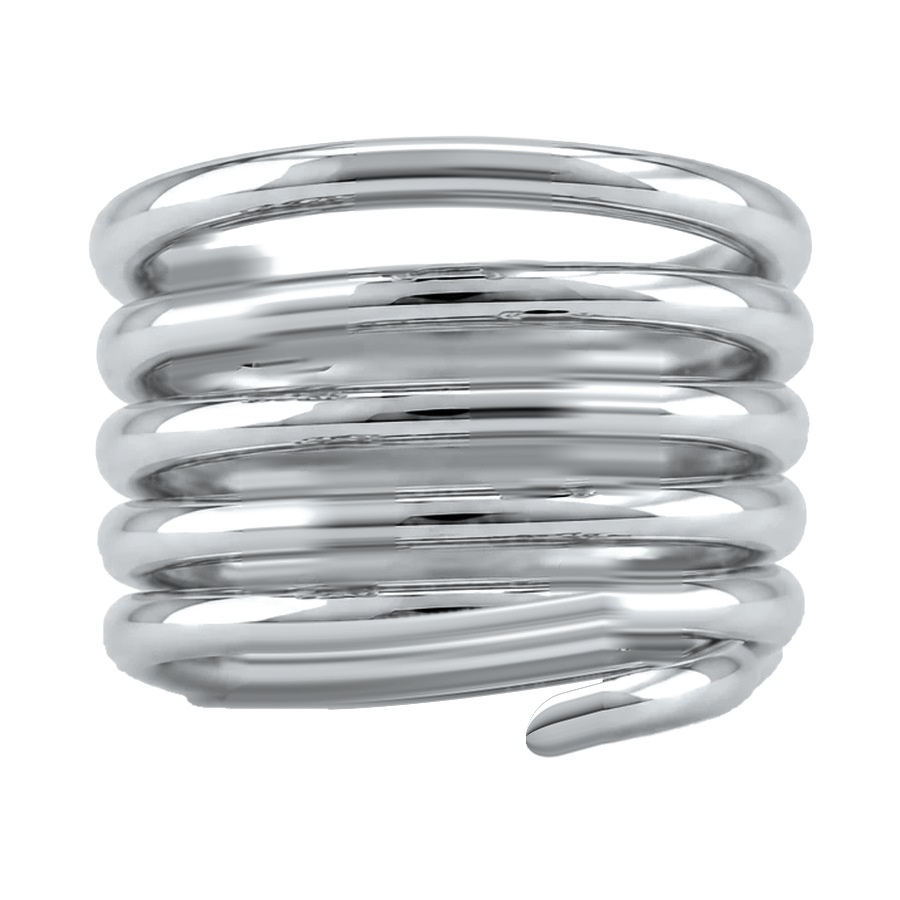
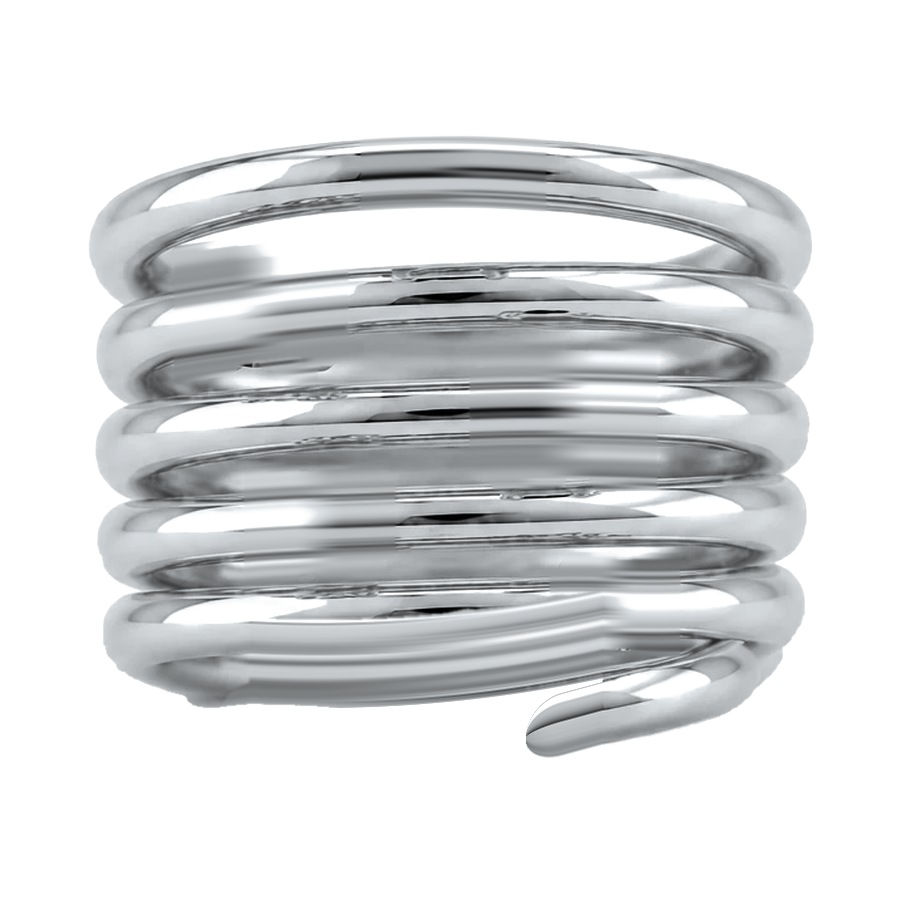
Rings 2 to 5: cleaner sides and bottom
Each setting's cut-out now stays inside the box of its own four prongs, so the ring's edge and the neighbouring bands are no longer touched. The band behind the bottom stone follows the real lower edge of the band (2-wrap step and 5-wrap smear gone).

diff --git a/index.html b/index.html
@@ -341,7 +341,7 @@ const PHOTO = 900, STONE_BOX = 3;      // a stone image is 3x its stone's radius
 
 const stoneSrc  = (i, metal) => asset('img/stones/' + METALS[metal].dir + '/' + STONE_BANK[i].file + '?v=2');
 const seatSrc   = metal => asset('img/stones/' + METALS[metal].dir + '/seat.png?v=2');
-const ringSrc   = (n, metal) => asset('img/rings/' + METALS[metal].dir + '/ring-' + n + '.jpg?v=14');   // bump v when the photos change, so no one sees old photos under new placements
+const ringSrc   = (n, metal) => asset('img/rings/' + METALS[metal].dir + '/ring-' + n + '.jpg?v=15');   // bump v when the photos change, so no one sees old photos under new placements
 const bottomSrc = (cut, size, metal) => asset('img/bottom/' + METALS[metal].dir + '/' + cut + '-' + size + '.png');
 
 /* ============================ STATE ============================

diff --git a/tools/nov24/lift4.py b/tools/nov24/lift4.py
@@ -37,19 +37,30 @@ def lift(std,s,kw,bad,top=False,thr=17.0):
             w=ndimage.gaussian_filter((~ndimage.binary_dilation(sbad,iterations=3)).astype(float),2.0)[...,None]
             return one*(1-w)+np.clip(src*gain,0,255)*w,np.maximum(m,ndimage.gaussian_filter(foot.astype(float),1.2)),f'turn dy={dy} dx={dx} err={e:.1f} donor free {1-sbad[foot].mean():.2f}'
     one,m,_=bridge(std,s['x'],s['y'],s['r'],**kw); return one,m,'bridge'
+def true_foot(shape,s,balls,inner):
+    """the setting's own outline: the stone, its four prong balls, the bars between them and the little gallery"""
+    H,W=shape; yy,xx=np.mgrid[:H,:W]; x,y,r=s['x'],s['y'],s['r']
+    f=(xx-x)**2+(yy-y)**2<(1.04*r+3)**2
+    for bx,by,br,ok in balls: f|=(xx-bx)**2+(yy-by)**2<(br+6)**2
+    for a,b in ((0,1),(2,3),(0,2),(1,3)):                      # bars: a capsule between neighbouring balls
+        (ax,ay,ar,_),(bx,by,br,_)=balls[a],balls[b]; t=np.clip(((xx-ax)*(bx-ax)+(yy-ay)*(by-ay))/max(1.0,(bx-ax)**2+(by-ay)**2),0,1)
+        f|=(xx-(ax+t*(bx-ax)))**2+(yy-(ay+t*(by-ay)))**2<(0.62*max(ar,br)+2)**2
+    gx=(balls[2][0]+balls[3][0])/2 if inner>0 else (balls[0][0]+balls[1][0])/2
+    f|=((xx-(gx+inner*0.22*r))/(0.42*r))**2+((yy-y)/(0.58*r))**2<1
+    return f
 def lift_all(n,std):
-    from marks import BEADS
-    P=json.load(open('params.json')); R=json.load(open('rounds.json'))[str(n)]; pears=json.load(open('pears.json'))[str(n)]
-    from PIL import Image, ImageDraw
-    H,W=std.shape[:2]; pm=Image.new('L',(W,H),0); ImageDraw.Draw(pm).polygon([tuple(p) for p in pears['hull']],fill=255); bad=np.asarray(pm)>0
-    yy,xx=np.mgrid[:H,:W]
-    for x,y,r in BEADS[n]: bad|=(xx-x)**2+(yy-y)**2<(r+4)**2
-    kws=[]
+    """every setting lifted by the row-by-row bridge, its outline kept inside the box of its own four prong balls"""
+    R=json.load(open('rounds.json'))[str(n)]; BL=json.load(open('balls.json'))[str(n)]; P=json.load(open('params.json'))
+    H,W=std.shape[:2]; bare=std.copy(); gone=np.zeros((H,W))
     for k,s in enumerate(R):
-        kw=dict(P.get(f'{n}-{k}',{})); [kw.pop(q,None) for q in ('x','y','r')]; kws.append(kw); bad|=footprint((H,W),s['x'],s['y'],s['r'],**kw)
-    bare=std.copy(); gone=np.zeros((H,W))
-    for k,s in enumerate(R):
-        one,m,how=lift(std,s,kws[k],bad,top=(k==0)); print('  ',n,k,s['kind'],how)
+        kw=dict(P.get(f'{n}-{k}',{})); [kw.pop(q,None) for q in ('x','y','r')]; x,y,r=s['x'],s['y'],s['r']; b=BL[k]; g=7.0
+        cl=(x-min(q[0]-q[2] for q in b)+g)/r; cr=(max(q[0]+q[2] for q in b)-x+g)/r; ct=(y-min(q[1]-q[2] for q in b)+g)/r; cb=(max(q[1]+q[2] for q in b)-y+g)/r
+        if k>0:                                                      # the gallery sticks out a little on the side facing the middle
+            if x<450: cr=max(cr,kw.get('padR',1.45))
+            else: cl=max(cl,kw.get('padL',1.45))
+        cl,cr=max(cl,1.42),max(cr,1.42); ct,cb=max(ct,1.32),max(cb,1.32)      # a missed ball must still be inside
+        cl,cr,ct,cb=[min(v,1.9) for v in (cl,cr,ct,cb)]
+        one,m,_=bridge(std,x,y,r,clip=(cl,cr,ct,cb),**kw); print('  ',n,k,s['kind'],'clip',[round(v,2) for v in (cl,cr,ct,cb)])
         bare=bare*(1-m[...,None])+one*m[...,None]; gone=np.maximum(gone,m)
     return bare,gone
 if __name__=='__main__':

diff --git a/tools/nov24/nopear.py b/tools/nov24/nopear.py
@@ -72,7 +72,18 @@ def erase(a,pg,T):
     sL=pg.get('sL',tilt(XL-24,XL,edgeL)); sR=pg.get('sR',tilt(xR,xR+24,edgeR)); print('   tilts',round(sL,3),round(sR,3),'rise',D)
     def offs(x):                                             # the band follows a smooth arc between the two sides
         t=(x-XL)/Wd; return (t**3-2*t*t+t)*sL*Wd+(-2*t**3+3*t*t)*D+(t**3-t*t)*sR*Wd
-    OFF=np.array([offs(x) for x in range(W)])
+    # the band's lower edge sags like the bottom of an ellipse: follow the real edge where the stone's body starts (XL2),
+    # leave it there at its own slope, and curve up to meet the band on the right
+    tipx,tipy,tipr=beads[0]; ysplit0=tipy-tipr-6
+    hx=np.nonzero((hole&(YY<ysplit0)&(XX>tipx)).any(0))[0]; XL2=max(XL,int(pg.get('XL2',(hx.min()-8) if len(hx) else XL)))
+    def low(x):
+        rr_=[q for q in runs((g&~hole)[:,x],minlen=6) if q[1]<y1+4]; return float(rr_[-1][1]) if rr_ else None
+    e2=pg.get('e2',low(XL2-3)); e2b=low(XL2-23)
+    if XL2>XL+10 and e2 is not None and e2b is not None and ('s2' in pg or abs(e2-e2b)/20.0<0.35):      # else the tilt-based arc
+        s2=float(pg.get('s2',(e2-e2b)/20.0)); L2=float(xR-XL2); c2=(edgeR-e2-s2*L2)/(L2*L2)
+        E=np.array([edgeL+(e2-edgeL)*(x-XL)/float(XL2-XL) if x<XL2 else e2+s2*(x-XL2)+c2*(x-XL2)**2 for x in range(W)])
+        OFF=E-edgeL; print('   lower edge at XL2',XL2,e2,'slope',round(s2,3))
+    else: OFF=np.array([offs(x) for x in range(W)])
     for x in range(XL,xR+1):
         t=(x-XL)/Wd; u=min(1.0,max(0.0,(t-0.5)/0.6+0.5)); ts=u*u*(3-2*u); off=OFF[x]
         new=samp(colL,off)*(1-ts)+samp(colRR,off-D)*ts
@@ -81,8 +92,7 @@ def erase(a,pg,T):
     PL=(float(XL),float(edgeL)); PR=(float(xR),float(edgeR))
     # the stone's point hangs below the band, so above the point the band is only hidden from where the stone's body
     # starts (XL2): left of that the band stays exactly as photographed, and the rebuilt part is as short as it can be
-    tipx,tipy,tipr=beads[0]; ysplit=tipy-tipr-6; rowsS=YY-OFF[None,:]
-    hx=np.nonzero((hole&(rowsS<ysplit)&(XX>tipx)).any(0))[0]; XL2=int(pg.get('XL2',(hx.min()-8) if len(hx) else XL)); XL2=max(XL2,XL)
+    ysplit=tipy-tipr-6; rowsS=YY-OFF[None,:]+0.0
     print('   XL2',XL2,'ysplit',round(ysplit))
     if XL2>XL+10:
         colL2=a[:,XL2-2:XL2+1].mean(1); W2=float(xR-XL2); fill2=fill.copy()
@@ -115,6 +125,11 @@ def erase(a,pg,T):
     mask=hole|rect|(wire&(XX<=xR))
     soft=ndimage.gaussian_filter(mask.astype(float),1.2)[:,:,None]
     out=a*(1-soft)+fill*soft
+    if pg.get('tipbridge'):                                   # the stone's point sat on a band of its own: bridge that band under it
+        from lift3 import bridge
+        left=ndimage.binary_dilation(hole&(XX<XL2+2),iterations=2); cols=np.nonzero(left.any(0))[0]
+        o2,m2,_=bridge(out,tipx,tipy,tipr,padL=(tipx-cols.min()+8)/tipr,padR=(cols.max()-tipx+8)/tipr,footimg=left)
+        out=out*(1-m2[...,None])+o2*m2[...,None]
     hx=float(hull[:,0].max()); return out,dict(T=int(T),right=int(hx),wire_at_right=round(float(cR+sw*(hx-xR)),1),tip=[int(x_end),int(round(cR+sw*(x_end-xR)))],wire_half=round(half,1),slope=round(sw,4),body=pg['body'],edge=[PL,PR])
 if __name__=='__main__':
     info={}; sheet=Image.new('RGB',(5*600,500),(255,255,255))

diff --git a/tools/nov24/balls.py b/tools/nov24/balls.py
@@ -1,0 +1,30 @@
+"""Find the four prong balls of every round setting on the standardised photos (Hough circles near each corner of the
+marked stone), so a setting can be lifted by its true outline."""
+import json, os, sys, numpy as np; sys.path.insert(0, os.path.dirname(os.path.abspath(__file__)))
+from PIL import Image, ImageDraw
+from marks import ROUNDS
+out={}; sheets=[]
+for n in range(1,6):
+    im=Image.open(f'std-{n}.png').convert('RGB'); a=np.asarray(im); gray=a.astype(float).mean(-1); d=ImageDraw.Draw(im); out[n]=[]
+    from skimage.feature import canny
+    from skimage.transform import hough_circle, hough_circle_peaks
+    for kind,x,y,r in ROUNDS[n]:
+        ox,oy=max(0,int(x-1.9*r)),max(0,int(y-1.9*r)); crop=gray[oy:int(y+1.9*r),ox:int(x+1.9*r)]
+        ed=canny(crop,sigma=1.6,low_threshold=8,high_threshold=25); radii=np.arange(int(0.22*r),int(0.42*r)+1)
+        hs=hough_circle(ed,radii); acc,cxs,cys,rs=hough_circle_peaks(hs,radii,min_xdistance=int(0.3*r),min_ydistance=int(0.3*r),total_num_peaks=40,normalize=True)
+        cs=[(cx+ox,cy+oy,rr,ac) for ac,cx,cy,rr in zip(acc,cxs,cys,rs)]
+        balls=[]
+        for sx in (-1,1):
+            for sy in (-1,1):
+                ex,ey=x+sx*0.95*r,y+sy*0.84*r
+                cand=[c for c in cs if np.hypot(c[0]-ex,c[1]-ey)<0.42*r and (c[0]-x)*sx>0.45*r and (c[1]-y)*sy>0.4*r]
+                if cand: c=max(cand,key=lambda c:c[3]-0.004*np.hypot(c[0]-ex,c[1]-ey)); balls.append([float(c[0]),float(c[1]),float(c[2]),1])
+                else: balls.append([ex,ey,0.32*r,0])
+        out[n].append(balls)
+        for bx,by,br,ok in balls: d.ellipse([bx-br,by-br,bx+br,by+br],outline=(0,255,0) if ok else (255,0,255),width=2)
+        d.ellipse([x-0.87*r,y-0.87*r,x+0.87*r,y+0.87*r],outline=(0,180,255),width=1)
+    sheets.append(im)
+json.dump(out,open('balls.json','w'))
+sh=Image.new('RGB',(4*700,560),'white')
+for i,n in enumerate((2,3,4,5)): sh.paste(sheets[n-1].crop((100,100,800,660)),(i*700,0))
+sh.save('balls.jpg',quality=90); print({n:[[b[3] for b in s] for s in out[n]] for n in out})

diff --git a/tools/nov24/lift3.py b/tools/nov24/lift3.py
@@ -4,7 +4,7 @@ Nothing further away is touched or copied from."""
 import json, os, sys, numpy as np; sys.path.insert(0, os.path.dirname(os.path.abspath(__file__)))
 from PIL import Image
 from scipy import ndimage
-def bridge(a,cx,cy,r,padL=1.45,padR=1.45,body=1.15,prong=(0.88,0.80,0.78),strip=0.85,mix=0.35,extra=(),**_):
+def bridge(a,cx,cy,r,padL=1.45,padR=1.45,body=1.15,prong=(0.88,0.80,0.78),strip=0.85,mix=0.35,extra=(),footimg=None,clip=None,**_):
     H,W,_c=a.shape; xL=int(round(cx-padL*r)); xR=int(round(cx+padR*r)); Wd=float(xR-xL)
     def shift(A,B,lim):
         u0=int(cy-1.0*r); u1=int(cy+1.0*r); best=None
@@ -32,6 +32,10 @@ def bridge(a,cx,cy,r,padL=1.45,padR=1.45,body=1.15,prong=(0.88,0.80,0.78),strip=
     for sx in (-1,1):
         for sy in (-1,1): foot|=(dx-sx*prong[0])**2+(dy-sy*prong[1])**2<prong[2]**2
     foot|=(dx>-padL)&(dx<padR)&(np.abs(dy)<strip)
+    for ex,ey,er in extra: foot|=(dx-ex)**2+(dy-ey)**2<er**2
+    if footimg is not None:                                  # the setting's true outline, given in the photo's own frame
+        yi=np.clip(np.round(ys[:,None]+rel[None,:]).astype(int),0,H-1); foot=footimg[yi,np.broadcast_to(xs[None,:],yi.shape)]
+    if clip is not None: foot&=(dx>-clip[0])&(dx<clip[1])&(dy>-clip[2])&(dy<clip[3])      # never past the setting's own prongs
     for ex,ey,er in extra: foot|=(dx-ex)**2+(dy-ey)**2<er**2
     foot[:, :M]=False; foot[:, -M:]=False
     F=S.copy()
